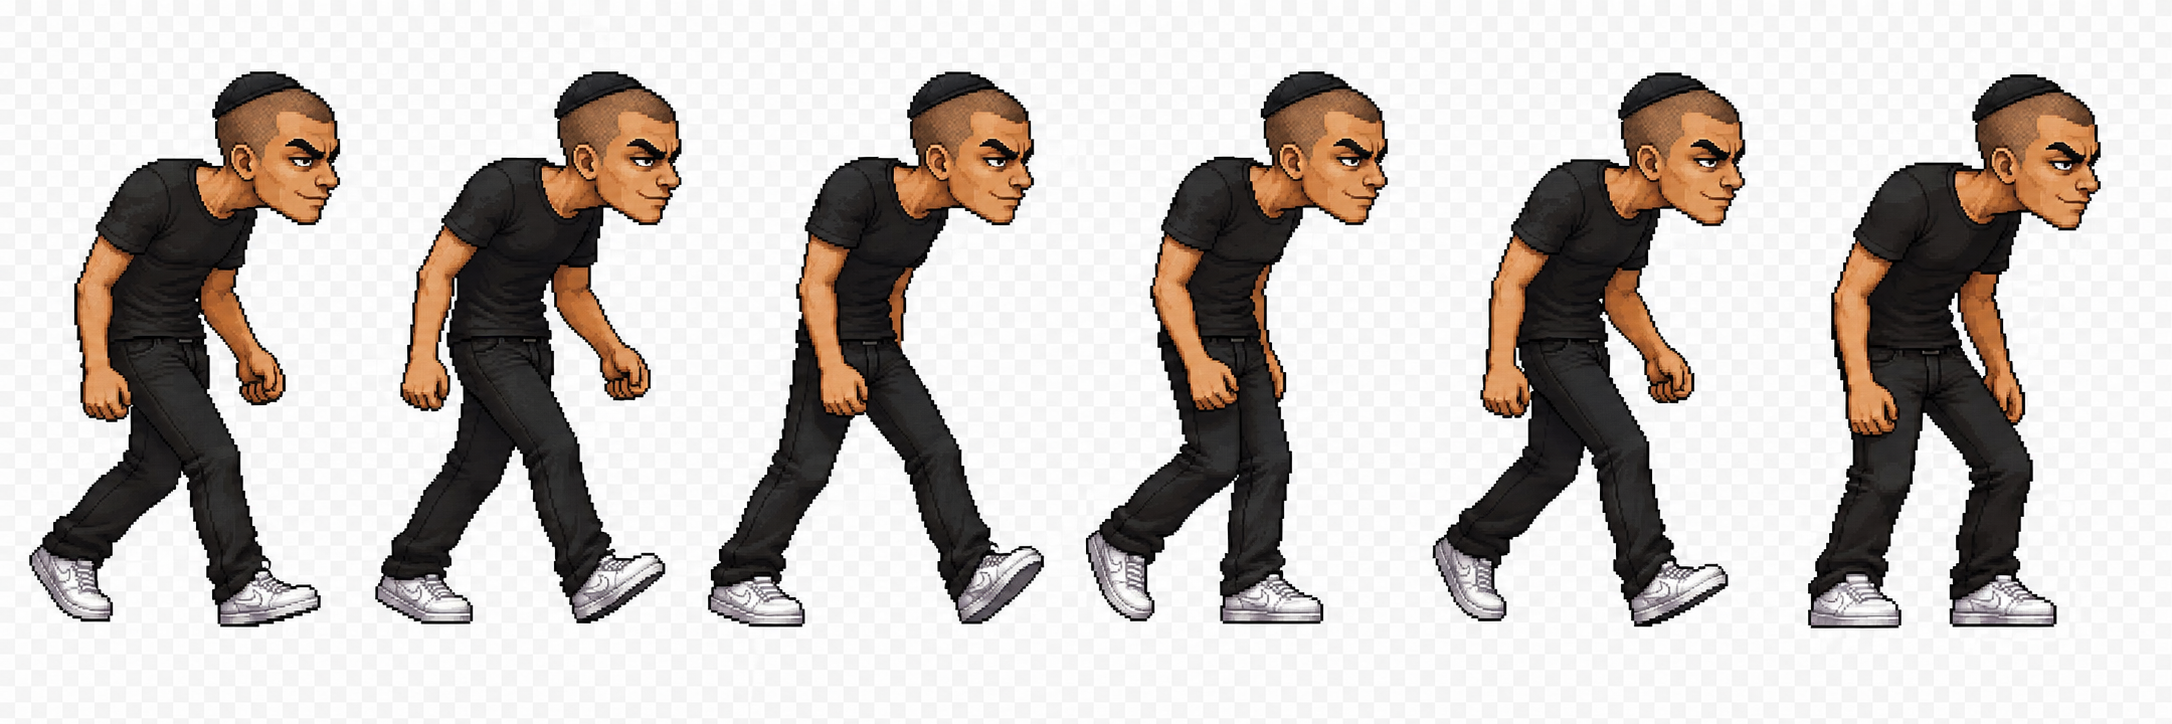
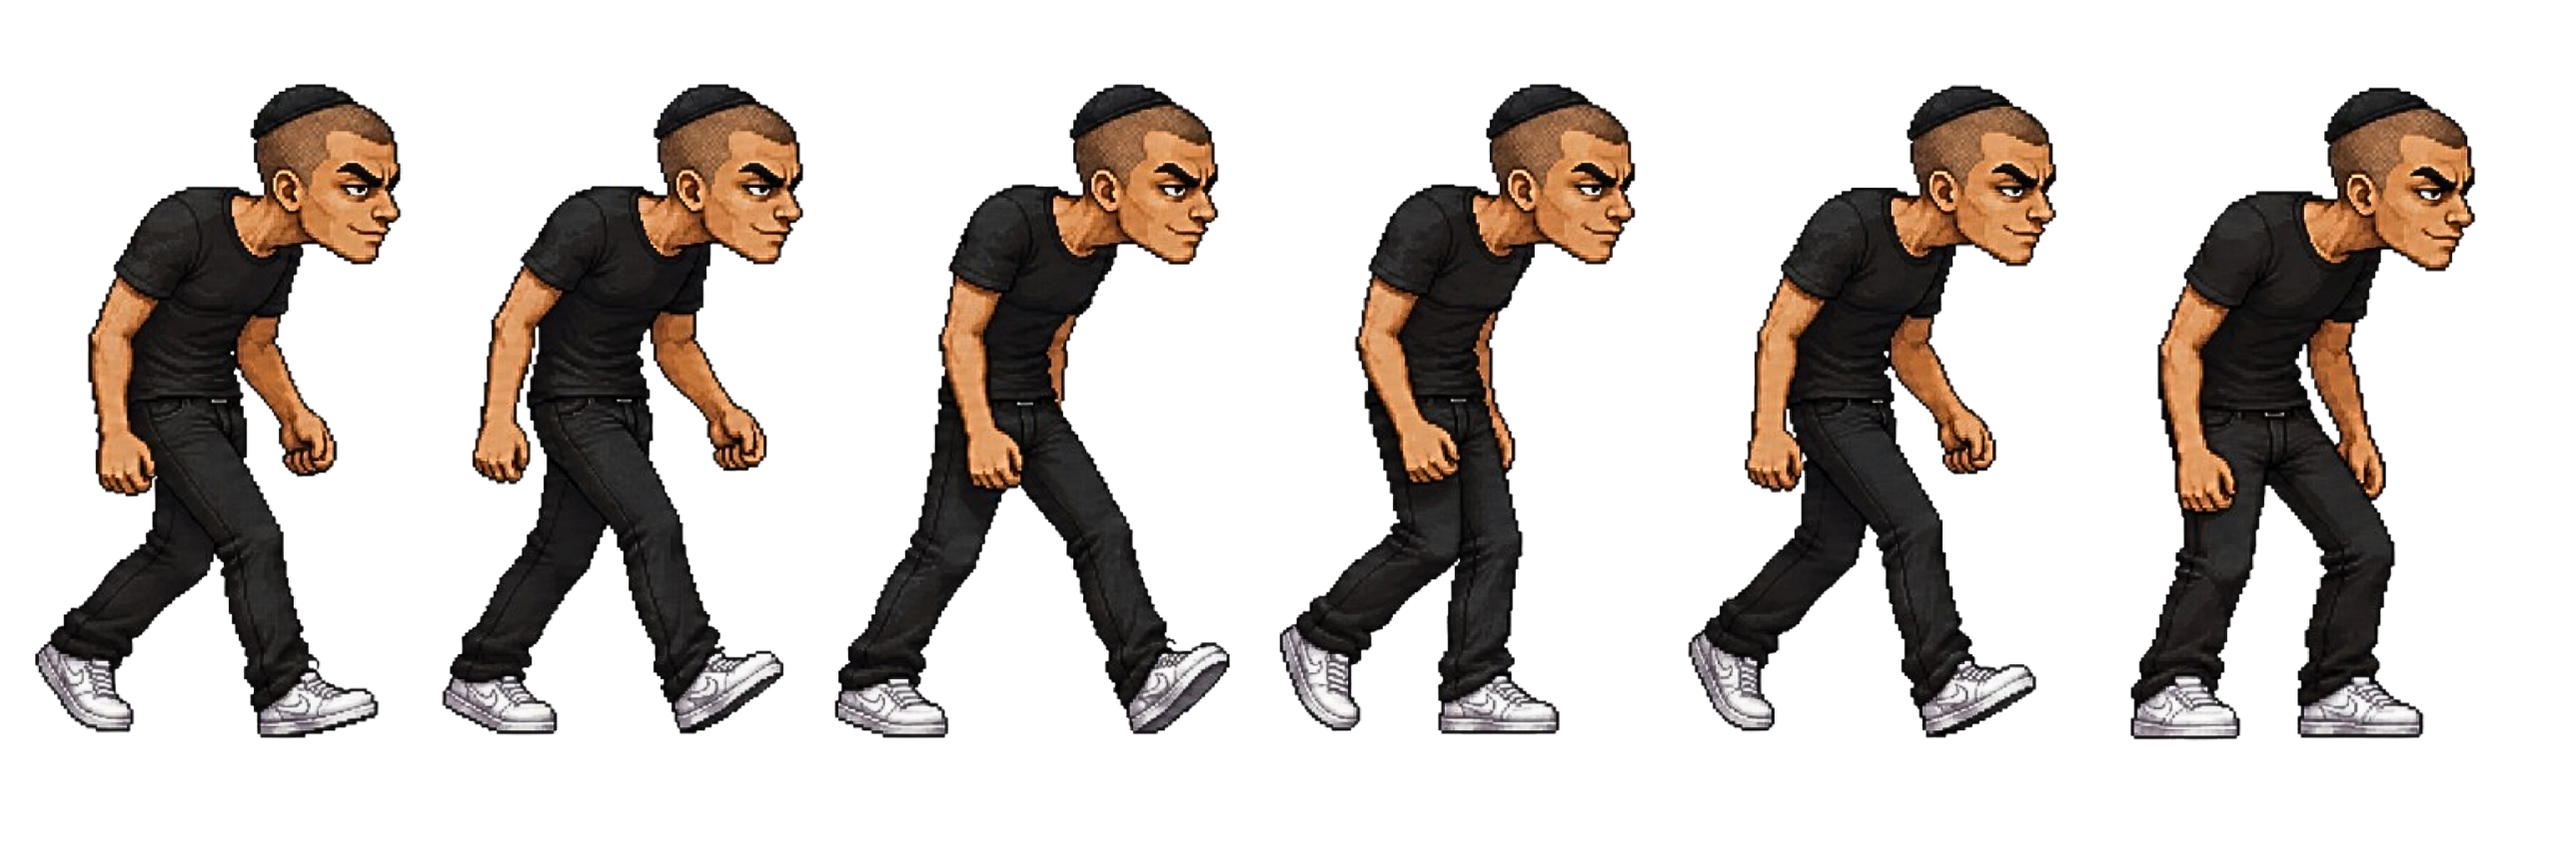
Integrate higher-quality Nahorai sprite sheets
Replace all three sprite sheets with new 2560px-wide versions:
idle (2560×853, 6 frames at 426px), walk (2560×852, 6 frames at 426px),
jump (2560×852, 4 rise frames at 640px each). Fall phase now holds frame 3
(airborne peak) since the new jump sheet is rise-only.

https://claude.ai/code/session_016R6BPEFAoX52kxYHU4KmwB

diff --git a/src/game/data/nahorai.ts b/src/game/data/nahorai.ts
@@ -7,11 +7,11 @@ import { FighterData } from '../fighters/FighterData';
 // airControl    0–1 fraction of walkSpeed while airborne
 //
 // Sprite sheets (all in public/assets/fighters/nahorai/):
-//   nahorai_idle.png  — 1774×887,  6 frames × 1 row,  frameW 295 frameH 883 margin 2
-//   nahorai_walk.png  — 2172×724,  6 frames × 1 row,  frameW 362 frameH 724
-//   nahorai_jump.png  — 1536×1024, 4 frames × 2 rows, frameW 384 frameH 512
-//     row 0 (frames 0-3): jump startup / rising / peak
-//     row 1 (frames 4-7): falling / descent / landing impact
+//   nahorai_idle.png  — 2560×853,  6 frames × 1 row,  frameW 426 frameH 853
+//   nahorai_walk.png  — 2560×852,  6 frames × 1 row,  frameW 426 frameH 852
+//   nahorai_jump.png  — 2560×852,  4 frames × 1 row,  frameW 640 frameH 852
+//     frames 0-3: crouch/launch → rising → airborne peak
+//     (fall phase holds frame 3 — no separate fall sheet yet)
 //
 // spriteDisplayHeight controls how tall the sprite renders in game pixels.
 // Hurtbox and hitbox positions are independent of sprite visuals.
@@ -65,9 +65,9 @@ export const nahoraiData: FighterData = {
     idle:         { start: 0, end: 5, frameRate: 8,  repeat: -1 },
     // Walk — 6 frames looping
     walk:         { start: 0, end: 5, frameRate: 10, repeat: -1 },
-    // Jump — 8 frames in two logical halves (both use nahorai_jump sheet)
-    jump_rise:    { start: 0, end: 3, frameRate: 10, repeat: 0  }, // frames 0-3: takeoff → peak
-    jump_fall:    { start: 4, end: 7, frameRate: 10, repeat: 0  }, // frames 4-7: fall → landing
+    // Jump — 4 rise frames; fall holds the last airborne frame
+    jump_rise:    { start: 0, end: 3, frameRate: 10, repeat: 0  }, // frames 0-3: crouch → airborne
+    jump_fall:    { start: 3, end: 3, frameRate: 10, repeat: -1 }, // frame 3 held during descent
     // Attack, block, hitstun, knockdown — placeholder indices for when sheets arrive
     light_attack: { start: 0, end: 2, frameRate: 18, repeat: 0  },
     heavy_attack: { start: 0, end: 4, frameRate: 12, repeat: 0  },

diff --git a/src/game/scenes/PreloadScene.ts b/src/game/scenes/PreloadScene.ts
@@ -15,19 +15,19 @@ export class PreloadScene extends Phaser.Scene {
     this.load.image('stage_bg', 'assets/stage/bg.png');
 
     // ── Nahorai sprite sheets ────────────────────────────────────────────────
-    // idle  — 1774×887,  6 frames × 1 row
+    // idle  — 2560×853,  6 frames × 1 row  (frameW = floor(2560/6) = 426)
     this.load.spritesheet('nahorai_idle', 'assets/fighters/nahorai/nahorai_idle.png', {
-      frameWidth: 295, frameHeight: 883, margin: 2,
+      frameWidth: 426, frameHeight: 853,
     });
 
-    // walk  — 2172×724,  6 frames × 1 row
+    // walk  — 2560×852,  6 frames × 1 row
     this.load.spritesheet('nahorai_walk', 'assets/fighters/nahorai/nahorai_walk.png', {
-      frameWidth: 362, frameHeight: 724,
+      frameWidth: 426, frameHeight: 852,
     });
 
-    // jump  — 1536×1024, 4 frames × 2 rows (rise row then fall row)
+    // jump  — 2560×852,  4 frames × 1 row  (rise only; fall holds frame 3)
     this.load.spritesheet('nahorai_jump', 'assets/fighters/nahorai/nahorai_jump.png', {
-      frameWidth: 384, frameHeight: 512,
+      frameWidth: 640, frameHeight: 852,
     });
 
     // ── Touch controls (Kenney Mobile Controls pack) ─────────────────────────